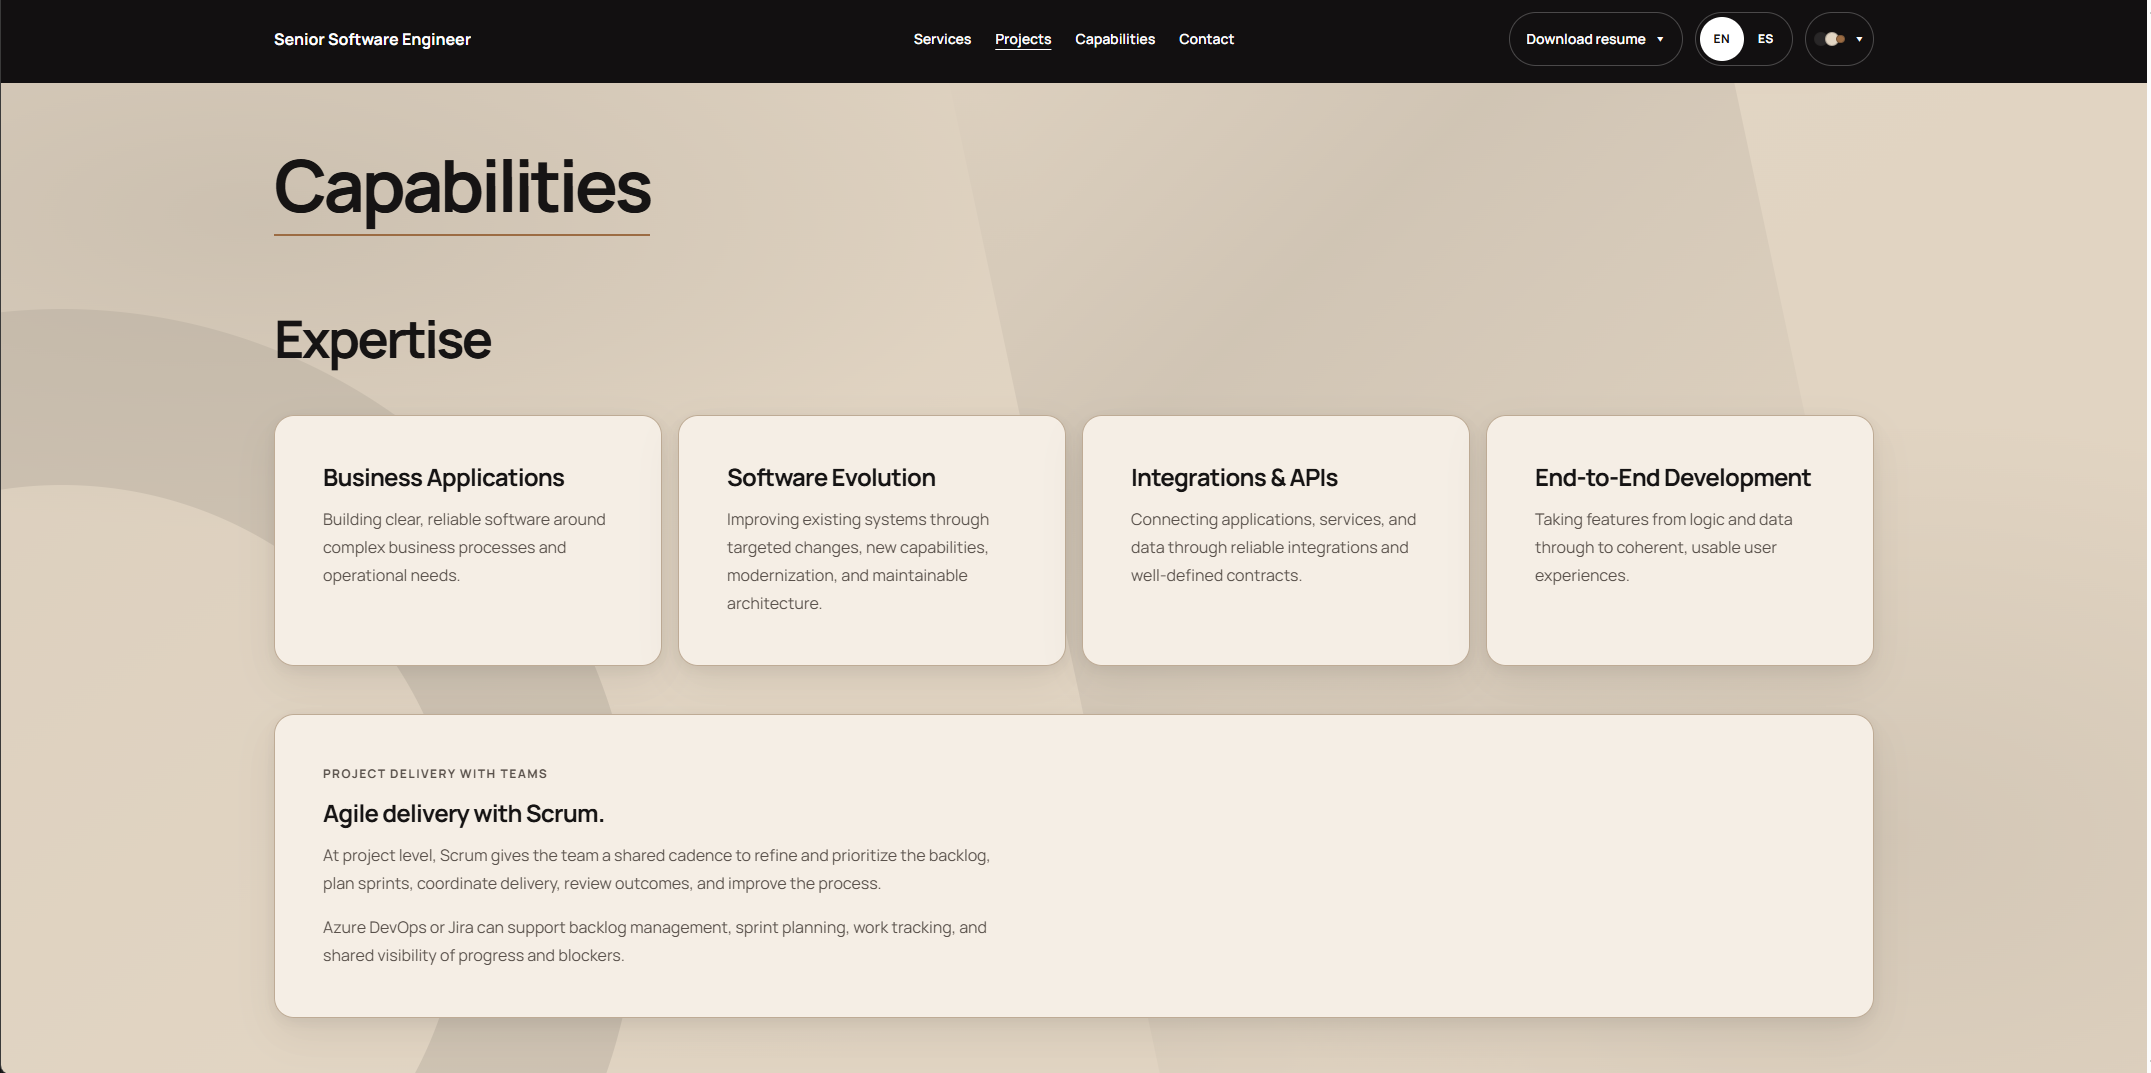
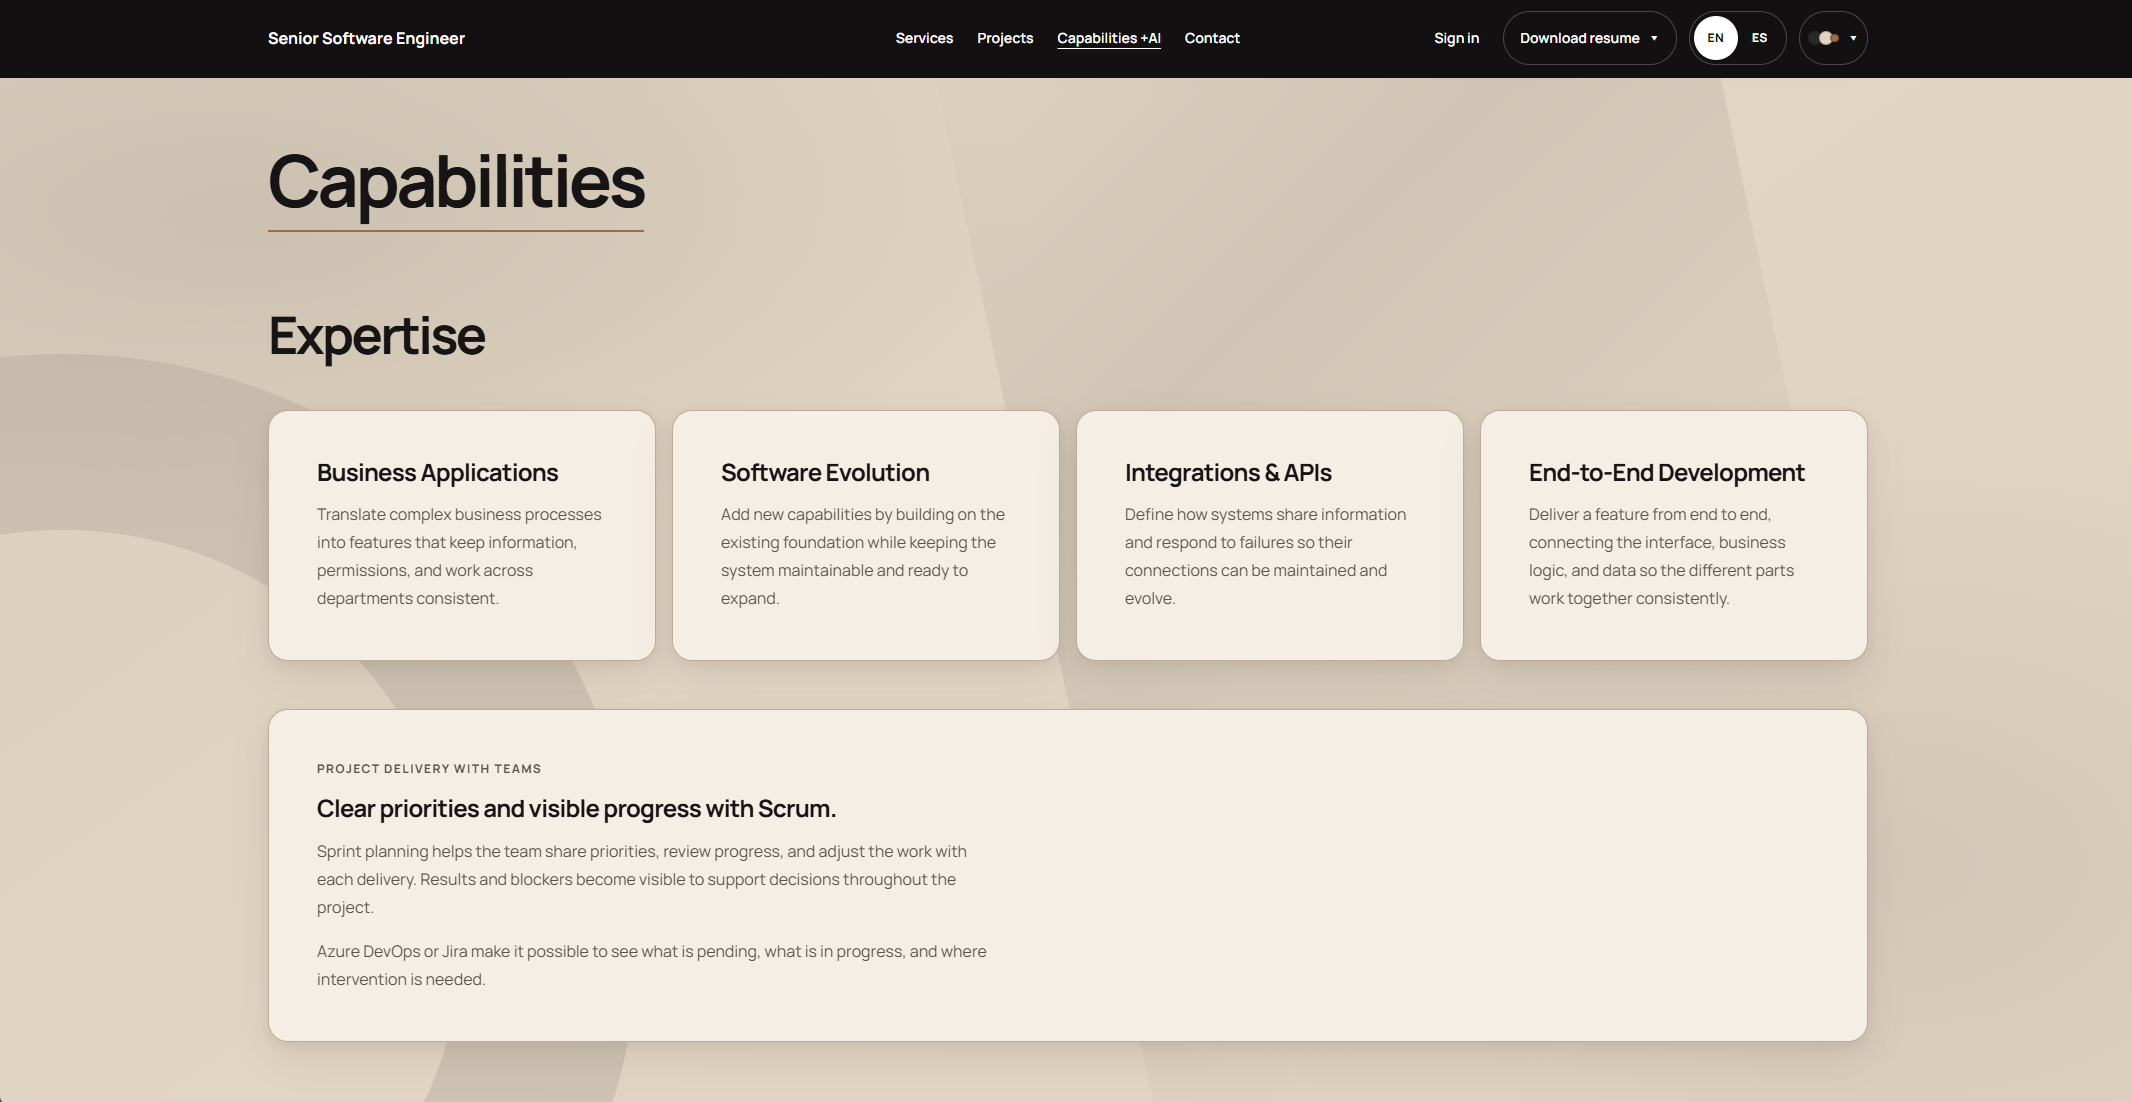
ai photo

diff --git a/src/app/content/portfolio-preview.data.ts b/src/app/content/portfolio-preview.data.ts
@@ -4,7 +4,7 @@ import { LocalizedText } from './portfolio-content.models';
 export const portfolioPreview = {
   id: 'this-portfolio',
   title: { en: 'This portfolio', es: 'Este portafolio' },
-  // Grouped by palette: slate blue, warm beige/dark, then green.
+  // Portfolio sections, including AI after capabilities, then interface examples.
   screenshots: [
     {
       id: 'hero',
@@ -37,6 +37,17 @@ export const portfolioPreview = {
       alt: {
         en: 'Portfolio capabilities, expertise and team delivery in the warm beige theme.',
         es: 'Capacidades, experiencia técnica y trabajo en equipo del portafolio en la paleta beige.',
+      },
+    },
+    {
+      id: 'ai',
+      src: '/images/portfolio/ai.png',
+      width: 2132,
+      height: 1102,
+      caption: { en: 'Artificial intelligence', es: 'Inteligencia artificial' },
+      alt: {
+        en: 'Artificial intelligence section within the portfolio capabilities.',
+        es: 'Sección de inteligencia artificial dentro de las capacidades del portafolio.',
       },
     },
     {

diff --git a/src/app/content/portfolio-content.data.ts b/src/app/content/portfolio-content.data.ts
@@ -29,7 +29,7 @@ export const navigationContent = [
   },
   {
     id: 'capabilities',
-    label: { en: 'Capabilities', es: 'Capacidades' },
+    label: { en: 'Capabilities +AI', es: 'Capacidades +IA' },
     href: '#capabilities',
   },
   {
